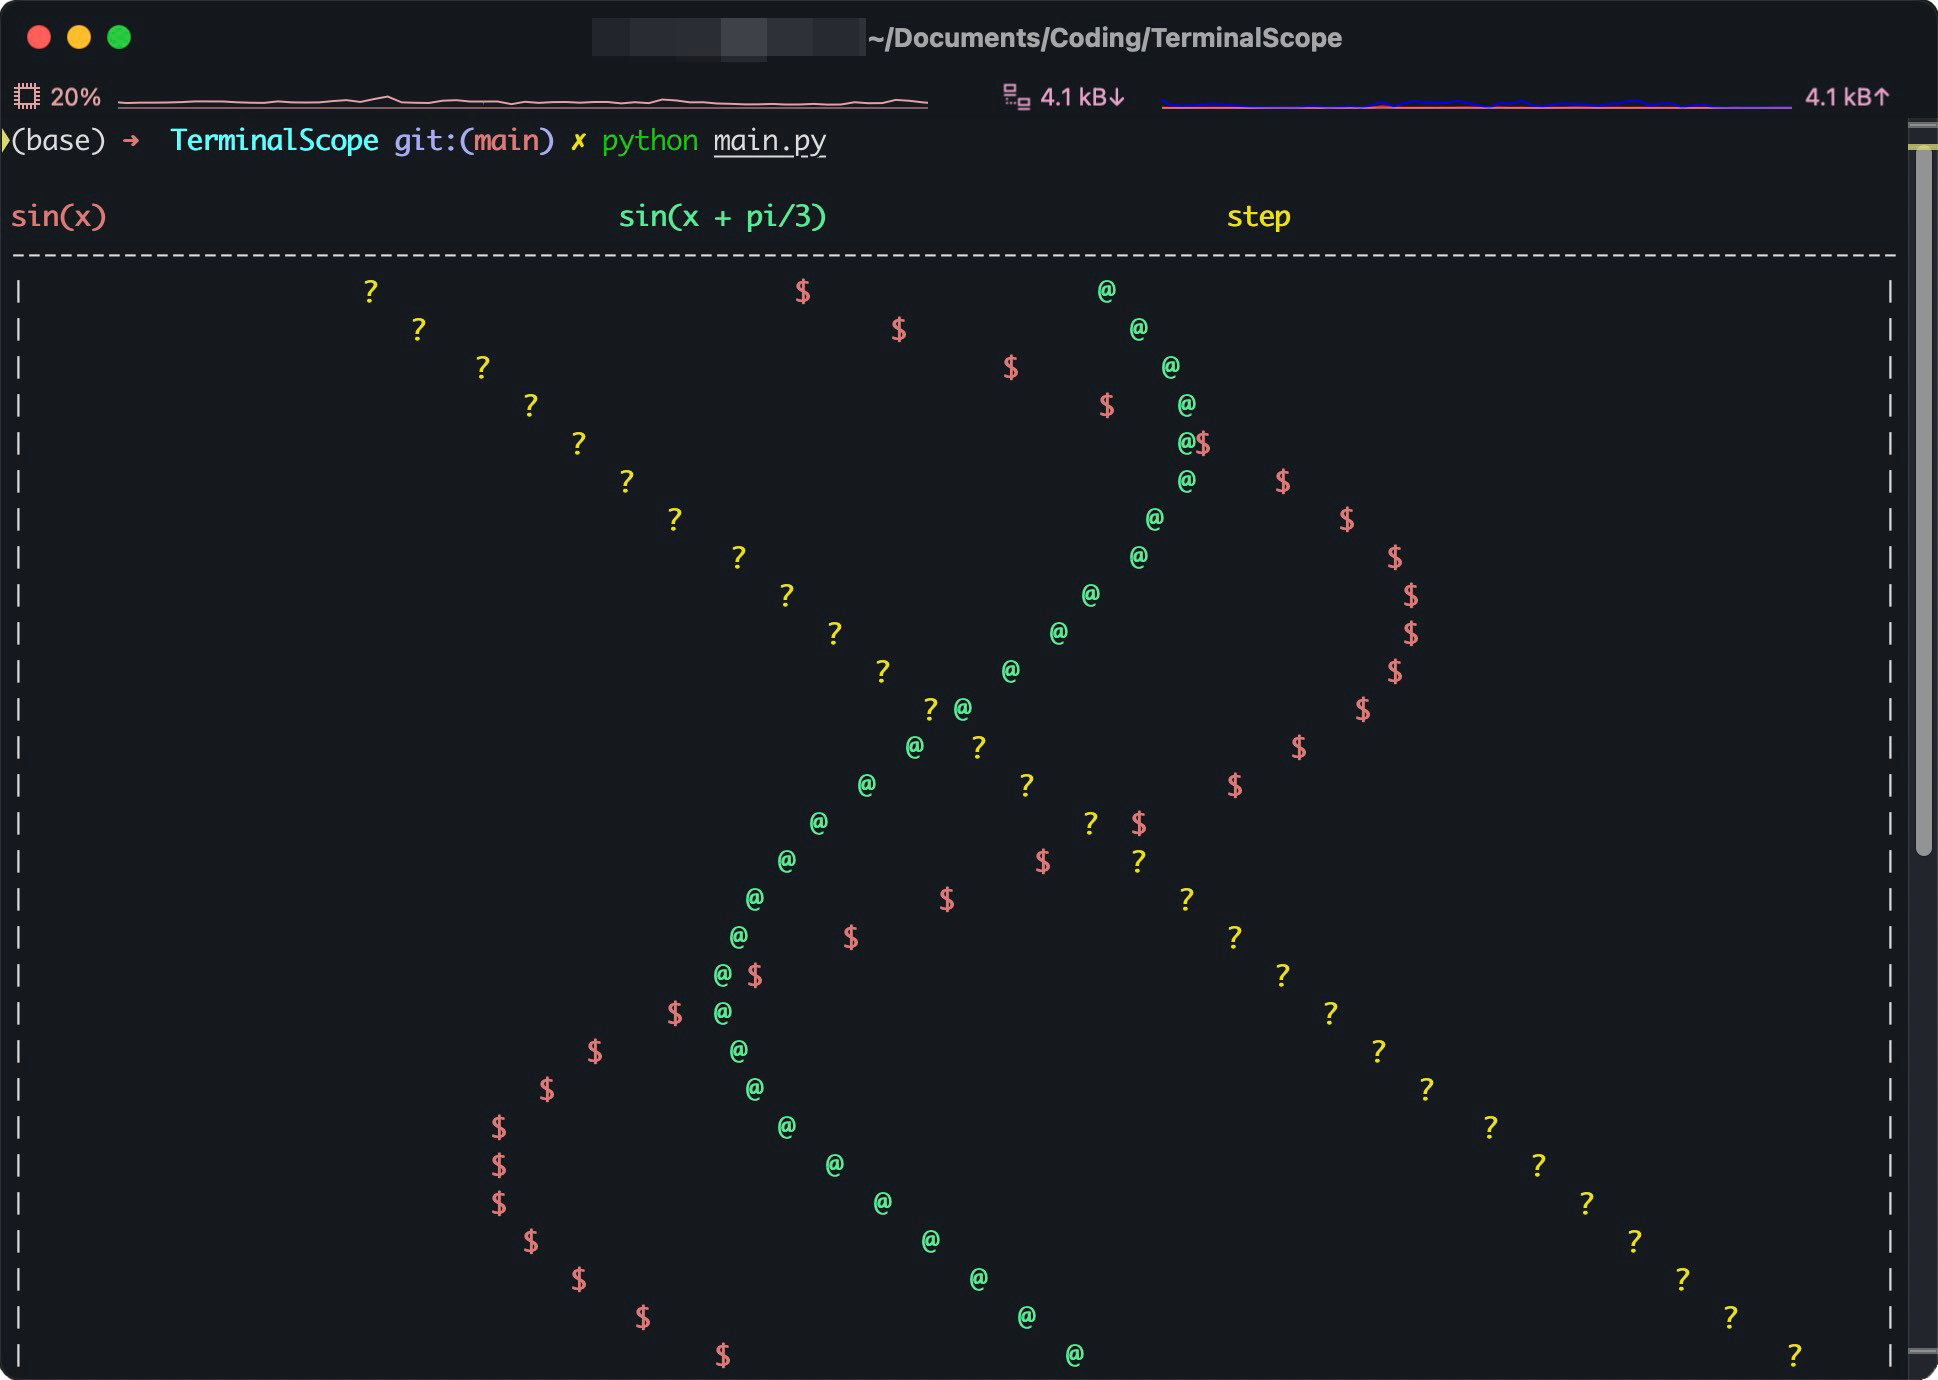
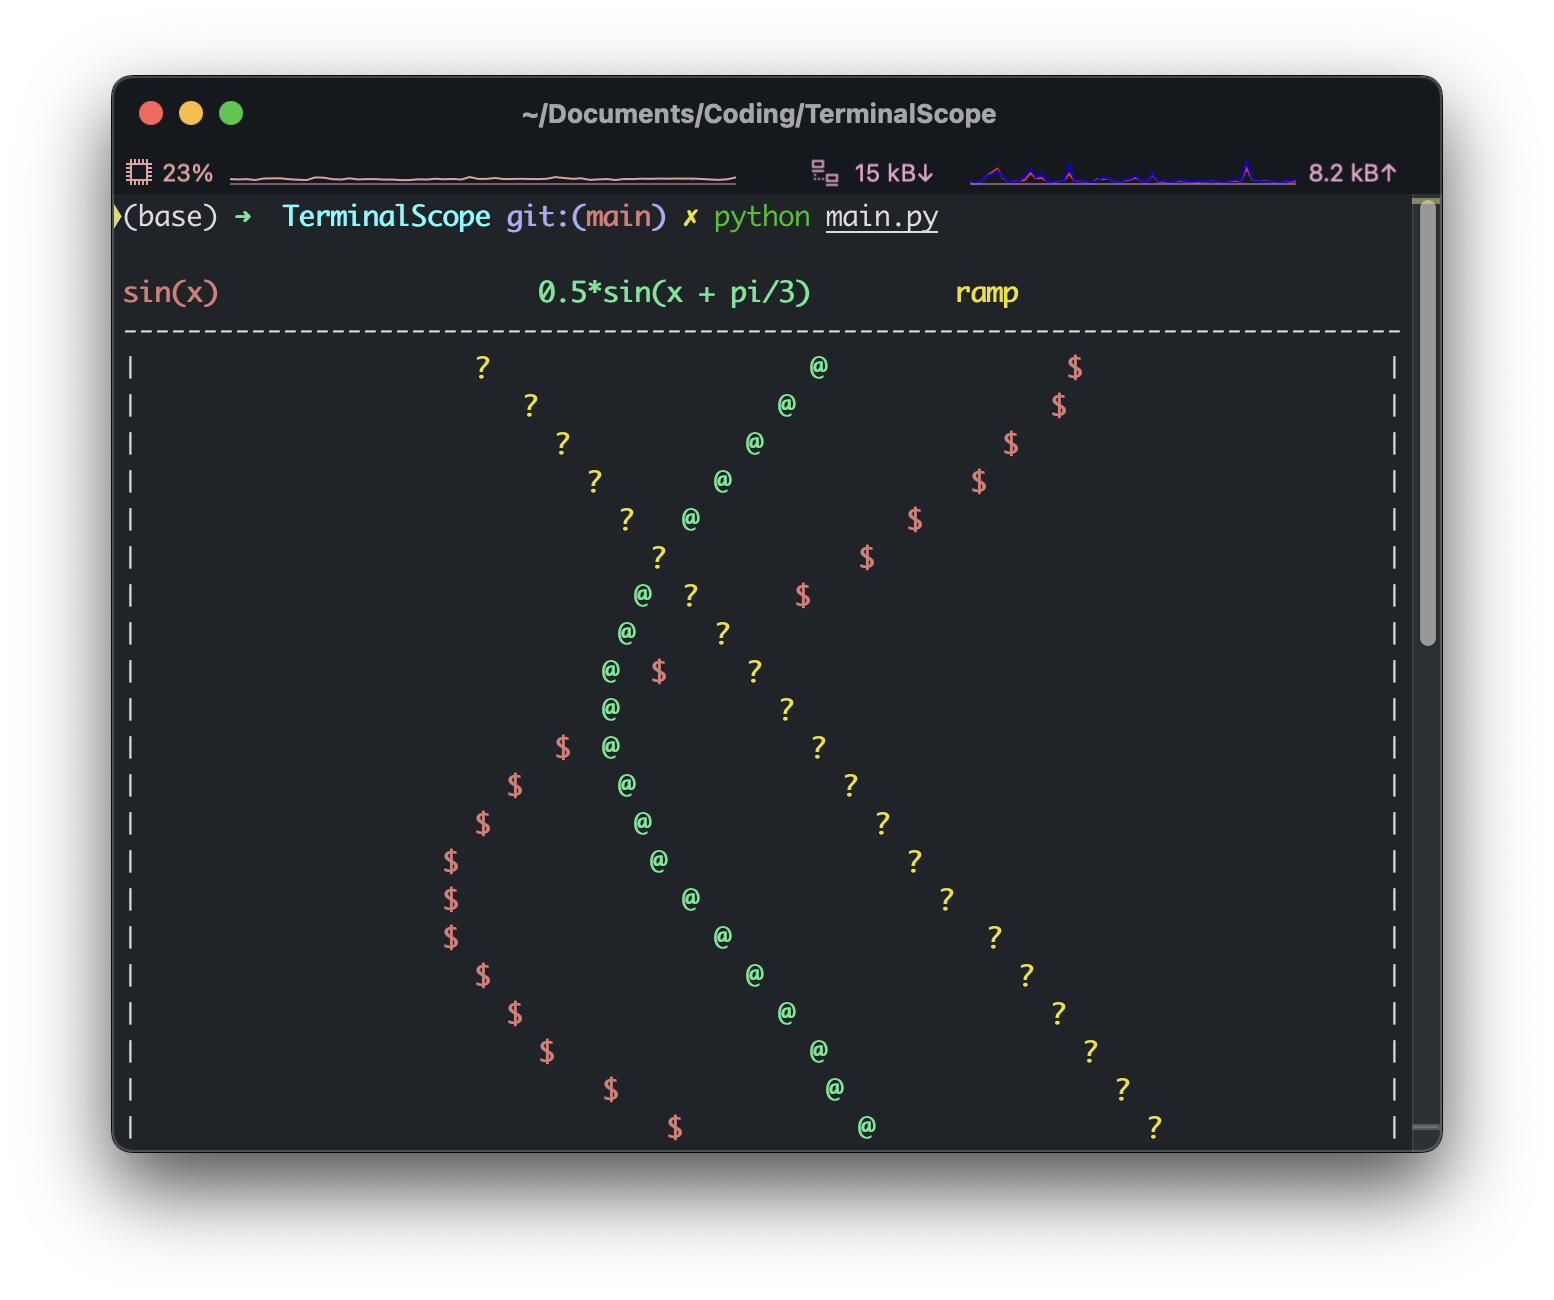
use dict instead of list to index data, update screenshot

diff --git a/main.py b/main.py
@@ -32,14 +32,15 @@ class TerminalScope():
 
     def plot(self, data):
         assert len(data) == self.variable_count, "Please check data length!"
-        pos = []
-        for d in data:
-            pos += [int((d - self.data_range[0])/(self.data_range[1] - self.data_range[0]) * self.plot_length)]
+
+        pos_key = {}
+        for index, d in enumerate(data):
+            pos_key[int((d - self.data_range[0])/(self.data_range[1] - self.data_range[0]) * self.plot_length)] = index
 
         line = '|'
-        for p in range(self.plot_length):
-            if p in pos:  # TODO hash?
-                index = pos.index(p)
+        for pos in range(self.plot_length):
+            if pos in pos_key:
+                index = pos_key[pos]
                 line += self._get_color_print(self.symbol_list[index], index)
             else:
                 line += ' '
@@ -62,7 +63,7 @@ class TerminalScope():
 
 
 if __name__ == "__main__":
-    scope = TerminalScope(['sin(x)', 'sin(x + pi/3)', 'step'],
+    scope = TerminalScope(['sin(x)', '0.5*sin(x + pi/3)', 'ramp'],
                           [-2, 2],
                           ['$', '@', '?'],
                           refresh_mode=False)
